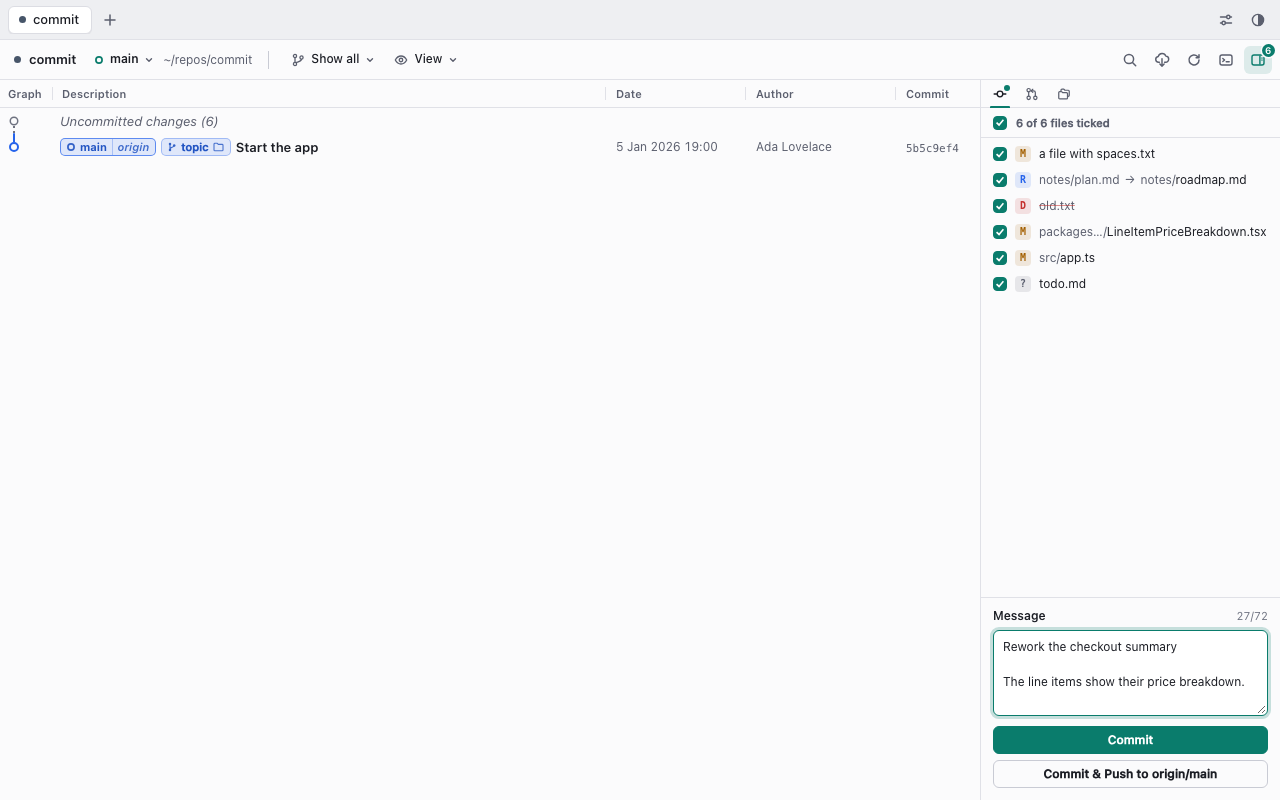
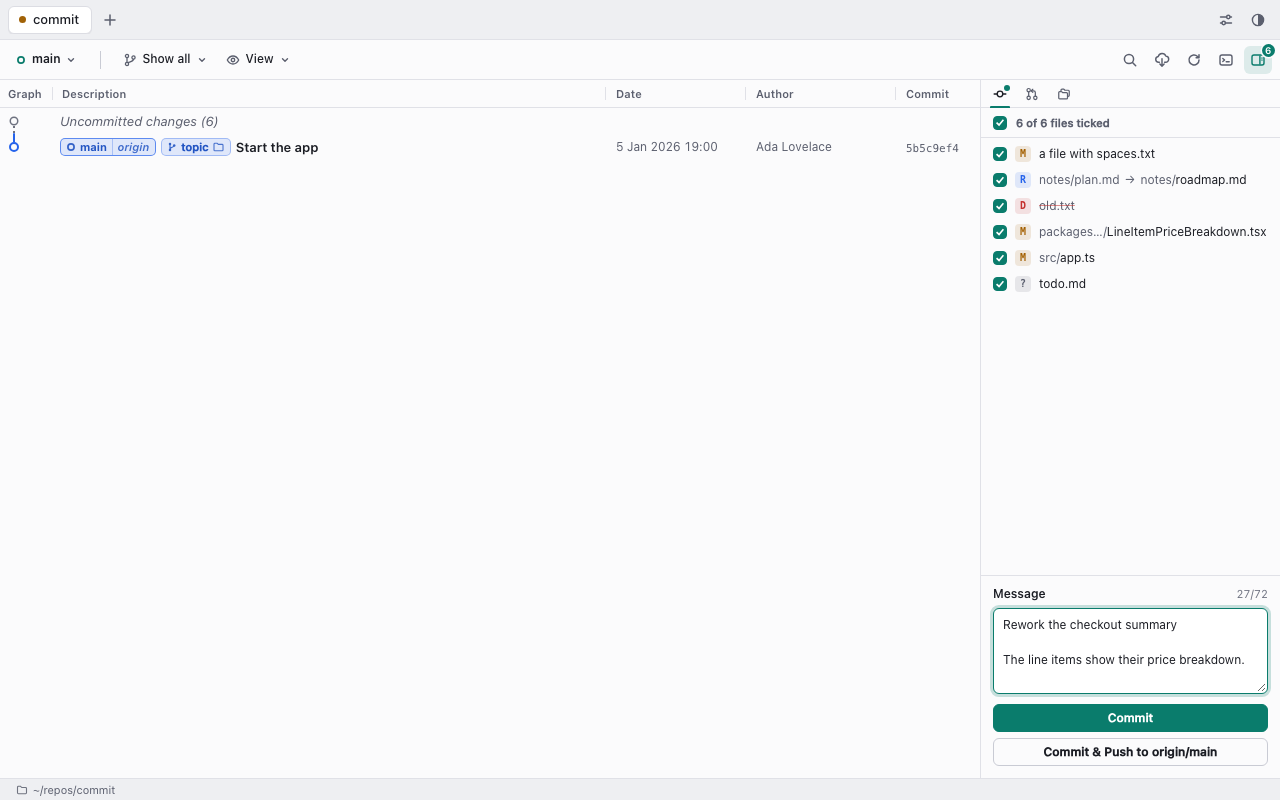
docs: the README's screenshots retaken with the shorter header, the toolbar's push count and the status bar, and a new one of a reply being written in a code comment's thread

diff --git a/README.md b/README.md
@@ -8,7 +8,7 @@ everyday actions on them.
 <picture>
   <source media="(prefers-color-scheme: dark)" srcset="docs/screens/graph-dark.png">
   <source media="(prefers-color-scheme: light)" srcset="docs/screens/graph-light.png">
-  <img alt="gg showing a repository's commit graph: coloured lanes on the left, branch, remote and tag labels beside each commit's subject, then date, author and short hash columns, and the side panel on the right, on its Worktrees tab" src="docs/screens/graph-light.png" width="1280">
+  <img alt="gg showing a repository's commit graph: coloured lanes on the left, branch, remote and tag labels beside each commit's subject, then date, author and short hash columns, the side panel on the right, on its Worktrees tab, the ↑1 push count in the toolbar, and the status bar along the bottom with the repository's folder" src="docs/screens/graph-light.png" width="1280">
 </picture>
 
 ## Why
@@ -194,6 +194,12 @@ write is kept while gg runs if it fails or you look elsewhere. After you push a 
 pull request, the tab opens by itself (a setting). Open pull requests show as markers beside
 their branches and worktrees. Without `gh`, gg pushes the branch and opens GitHub's compare
 page instead. gg never reads or stores a GitHub token.
+
+<picture>
+  <source media="(prefers-color-scheme: dark)" srcset="docs/screens/pr-reply-dark.png">
+  <source media="(prefers-color-scheme: light)" srcset="docs/screens/pr-reply-light.png">
+  <img alt="A reply being written in the code comment's thread on README.md:3 in the Pull request tab, under grace's question and ada's answer, with Resolve and Reply buttons below the box" src="docs/screens/pr-reply-light.png" width="640">
+</picture>
 
 <picture>
   <source media="(prefers-color-scheme: dark)" srcset="docs/screens/pr-create-dark.png">
